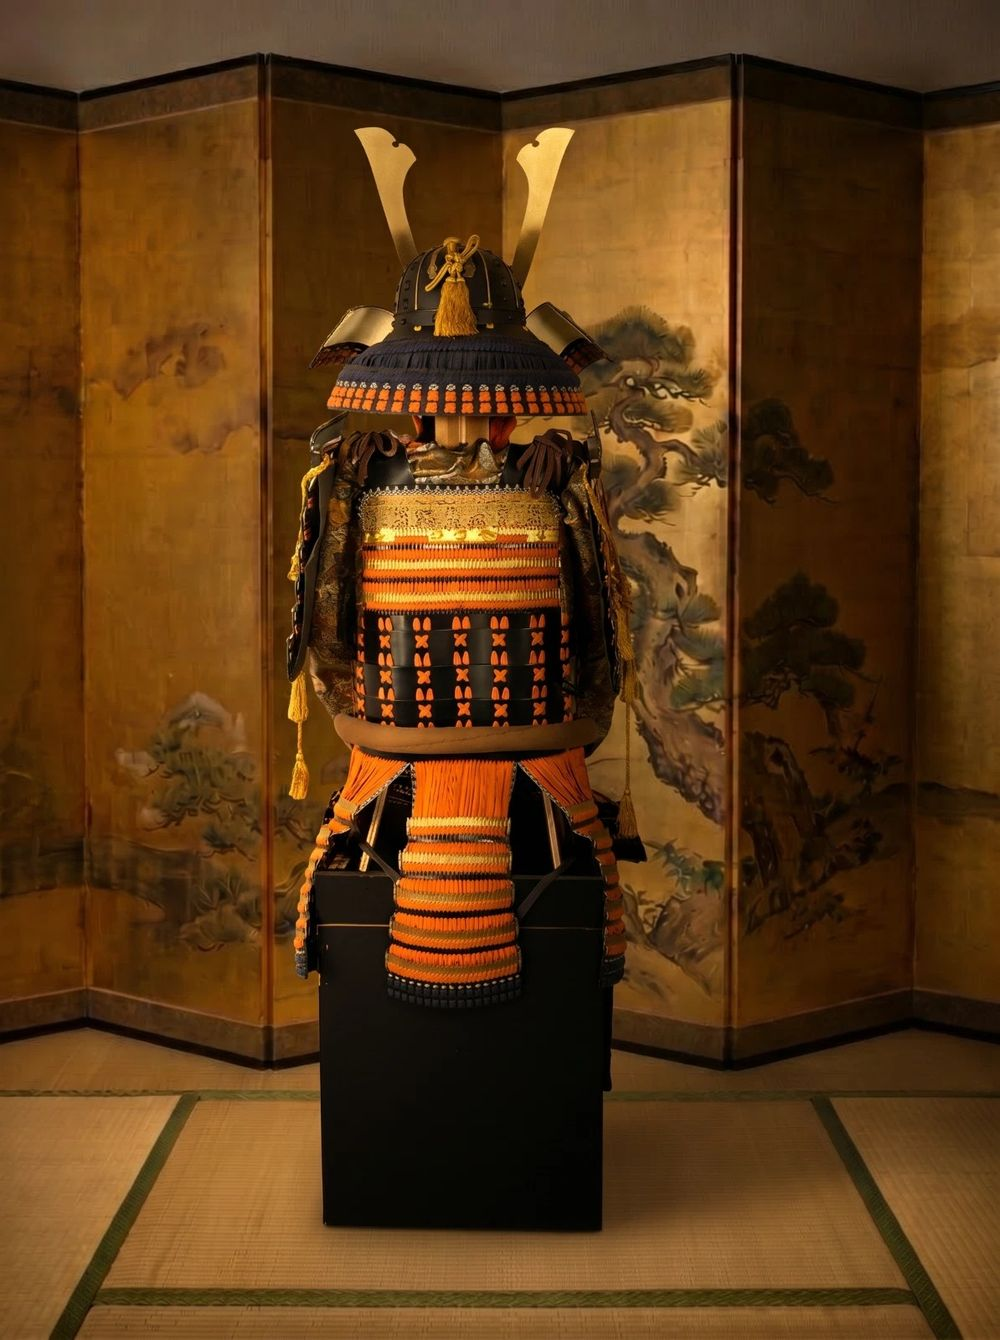
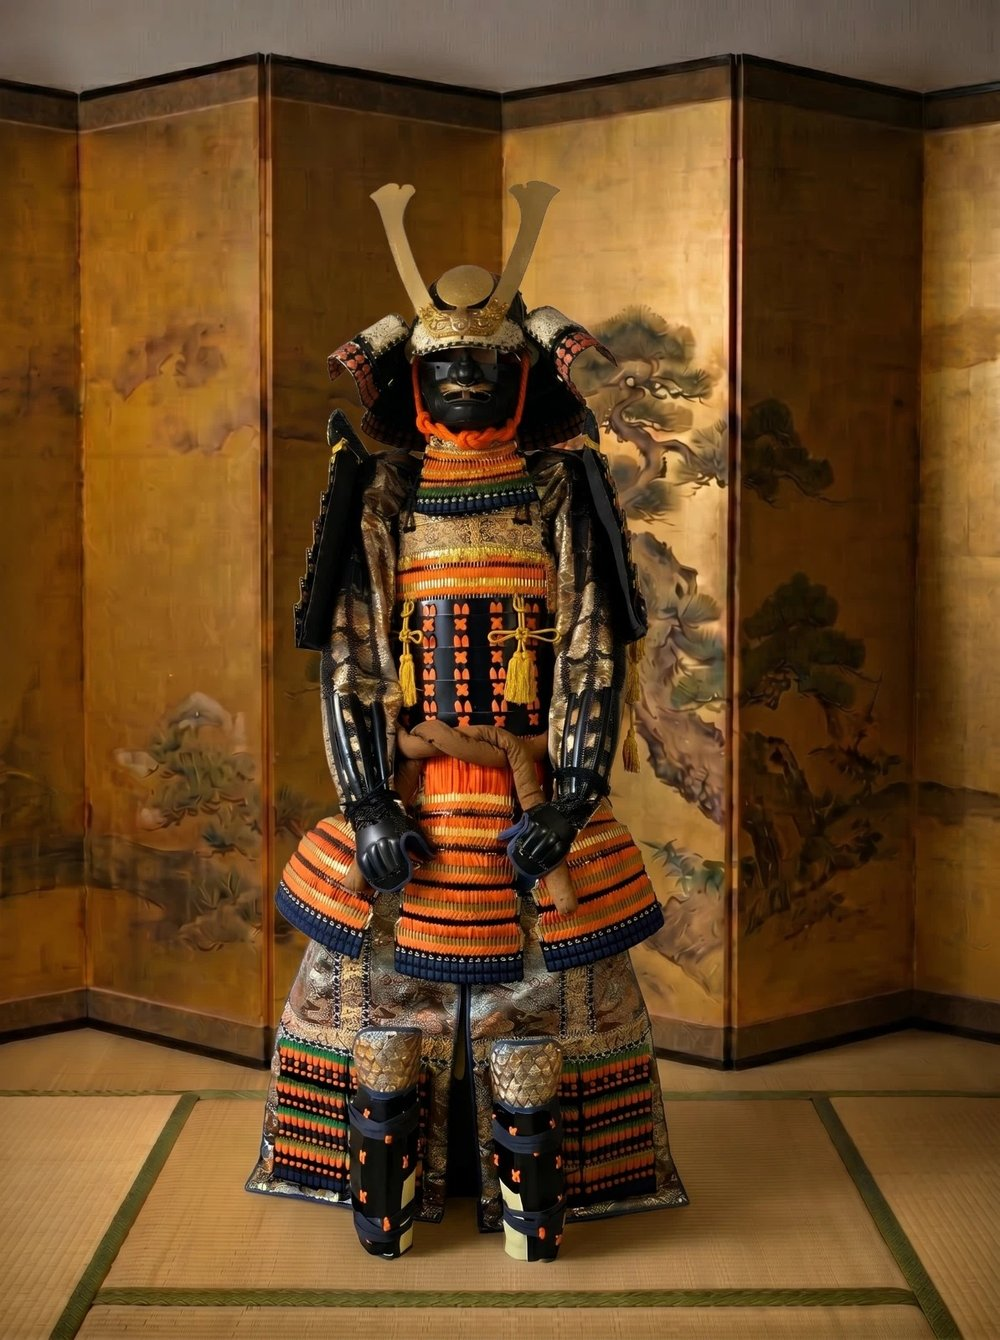
文言を削る・表紙の甲冑を正面の写真に・名前を外す・名刺の事例を外す

diff --git a/index.html b/index.html
@@ -1,14 +1,13 @@
 <!doctype html>
 <html lang="ja">
 <head>
-</script>
 
 <meta charset="utf-8">
 <meta name="viewport" content="width=device-width,initial-scale=1">
-<title>FIVE RINGS｜加藤一央</title>
-<meta name="description" content="東京・八王子のFIVE RINGS。甲冑・骨董の海外販売、植物の輸出申請の代行、中国輸入と、AIを使ったアプリ・ツール制作、SNS運営、ウェブサイト制作、デザイン、暮らしや事業のサポート。">
-<meta property="og:title" content="FIVE RINGS｜加藤一央">
-<meta property="og:description" content="日本の物を、世界へ。手間は、AIで軽く。頼めることと事例、連絡先。">
+<title>FIVE RINGS｜甲冑・骨董の海外販売とAIの道具づくり</title>
+<meta name="description" content="東京・八王子のFIVE RINGS。甲冑・骨董の海外販売、植物の買い付けと輸出、中国輸入。AIを使ったアプリ・ツール制作、SNS運営、ウェブサイト制作、デザイン。">
+<meta property="og:title" content="FIVE RINGS">
+<meta property="og:description" content="日本の物を、世界へ。手間は、AIで軽く。">
 <meta property="og:image" content="https://fiveringstokyo.com/img/hero.jpg">
 <meta name="theme-color" content="#f3efe5">
 <link rel="icon" href="icon.png">
@@ -275,10 +274,8 @@ footer{padding-bottom:64px}
 <p class="label">Five Rings — Hachioji, Tokyo</p>
 <h1><span>日本の物を、世界へ。</span><span>手間は、<span class="tcy">AI</span>で軽く。</span></h1>
 <div class="meta">
-<p class="lead"><span class="nb">甲冑・骨董の海外販売と、</span><span class="nb">AIの道具づくり。</span><br><span class="nb nw">困りごとを、</span><span class="nb">形にするまでひとりで。</span></p>
-<p class="who"><b>加藤一央</b><span>Kazuteru Kato</span></p>
+<p class="lead"><span class="nb">甲冑・骨董の海外販売と、</span><span class="nb">AIの道具づくり。</span></p>
 <div class="cta"><a class="btn" href="#renraku">相談する</a><a class="more" href="#jirei">事例を見る</a></div>
-<div class="forwho"><p>こんな方へ</p><ul><li><a href="#shigoto">骨董・甲冑を海外で売りたい</a></li><li><a href="#shigoto">海外へ植物を送りたい・買い付けたい</a></li><li><a href="#shigoto">仕事の道具やページを作りたい</a></li></ul></div>
 </div>
 </div>
 <figure class="fade"><img src="img/hero.jpg" alt="金屏風の前に飾った甲冑" width="1000" height="1340"><figcaption>海外のオークションで落札された甲冑</figcaption></figure>
@@ -297,17 +294,17 @@ footer{padding-bottom:64px}
 <div class="groups">
 <div class="grp"><h3 class="g">物販</h3>
 <div class="list">
-<div class="item"><h3>輸出（骨董・甲冑・刀装具）</h3><p>日本の骨董や甲冑・刀装具などを、海外のオークションや通販で売ります。</p><p class="rei">手元の骨董を海外で売りたい、の相談</p></div>
-<div class="item"><h3>植物の買い付けと輸出</h3><p>サボテン・多肉植物など、ワシントン条約の対象になる植物を日本で買い付け、輸出の許可を取って海外のお客様へお送りします。送れるかどうかは、植物の種類と送り先の国を確かめてからお返事します。</p><p class="rei">海外のお客様への株の買い付けと発送</p></div>
-<div class="item"><h3>輸入（中国輸入）</h3><p>中国の通販（タオバオなど）からの買い付け・取り寄せを代わりに行います。</p><p class="rei">日本では手に入りにくい品の取り寄せ</p></div>
+<div class="item"><h3>輸出（骨董・甲冑・刀装具）</h3><p>海外のオークションや通販で売ります。</p></div>
+<div class="item"><h3>植物の買い付けと輸出</h3><p>サボテン・多肉植物を日本で買い付け、輸出の許可を取ってお送りします。送れるかは種類と国によります。</p></div>
+<div class="item"><h3>輸入（中国輸入）</h3><p>タオバオなど中国の通販から取り寄せます。</p></div>
 </div></div>
 <div class="grp"><h3 class="g">AI事業</h3>
 <div class="list">
-<div class="item"><h3>アプリ・ツール制作</h3><p>毎日の手作業を減らす小さな道具から、スマホで使うアプリまで。</p><p class="rei">売上や在庫をまとめる台帳、予約の受付</p></div>
-<div class="item"><h3>SNS運営</h3><p>投稿の画像と文章づくり、続けるための段取りを引き受けます。</p><p class="rei">インスタの投稿を毎週そろえる</p></div>
-<div class="item"><h3>ウェブサイト制作</h3><p>お店や個人の紹介ページを、名刺から開ける1枚から作ります。</p><p class="rei">このページ</p></div>
-<div class="item"><h3>デザイン（平面・3D）</h3><p>名刺・チラシなどの紙物から、部屋や品物の3Dまで。</p><p class="rei">この名刺、部屋の3D</p></div>
-<div class="item"><h3>暮らしや事業のサポート</h3><p>調べ物、海外とのやりとりの翻訳、手続きの下調べなど、AIを使って困りごとを一緒に片付けます。</p><p class="rei">海外の買い手とのやりとり、手続きの下調べ</p></div>
+<div class="item"><h3>アプリ・ツール制作</h3><p>手作業を減らす道具から、スマホのアプリまで。</p></div>
+<div class="item"><h3>SNS運営</h3><p>投稿の画像と文章を作ります。</p></div>
+<div class="item"><h3>ウェブサイト制作</h3><p>このページのような紹介ページを作ります。</p></div>
+<div class="item"><h3>デザイン（平面・3D）</h3><p>名刺・チラシから、部屋や品物の3Dまで。</p></div>
+<div class="item"><h3>暮らしや事業のサポート</h3><p>調べ物や翻訳など、AIで困りごとを片付けます。</p></div>
 </div></div>
 </div>
 </div>
@@ -317,8 +314,7 @@ footer{padding-bottom:64px}
 <div class="inner wrap2">
 <div class="shead"><p class="no">02</p><h2>事例</h2><p class="label">Works</p></div>
 <div>
-<p class="intro">わたしはプログラマーではありません。AIに「こういう物がほしい」と言葉で伝えて作らせ、毎日自分で使いながら直す。そのやり方で、仕事の道具を増やしてきました。</p>
-<p class="intro">専門の言葉が分からなくても、困りごとさえ分かれば形にできます。</p>
+<p class="intro">AIに言葉で頼んで作らせ、毎日使いながら直しています。</p>
 </div>
 </div>
 
@@ -340,8 +336,7 @@ footer{padding-bottom:64px}
 <div class="txt">
 <p class="no">Case 01</p>
 <h3>ひとりで動かす、<br>AIの会社</h3>
-<p>写真・調べ物・物販・翻訳・予定・家計など、仕事ごとに担当のAIを置いて、ひとつの画面にまとめました。「この服を海外で売っておいて」と一言送るだけで、担当どうしが手分けして準備を進め、値段のように人が決めるべき所だけをボタンで聞いてきます。</p>
-<p class="kekka"><b>Result</b>物販と制作を、ひとりで回せるようになりました。</p>
+<p>仕事ごとに担当のAIを置き、ひとつの画面にまとめました。一言頼めば手分けして動き、値段など決める所だけを聞いてきます。</p>
 </div>
 </div>
 
@@ -358,21 +353,19 @@ footer{padding-bottom:64px}
 <div class="txt">
 <p class="no">Case 02</p>
 <h3>海外のお客様<br>専用の窓</h3>
-<p>韓国のお客様と、植物の輸出の手続きを進めるための専用ページです。お客様は韓国語、こちらは日本語のまま書けば、AIが訳して届けます。書類の下書きや送る前の確認も、同じ画面で進みます。</p>
-<p class="kekka"><b>Result</b>言葉の壁なく、海外のお客様と手続きを進められます。</p>
+<p>お客様は韓国語、こちらは日本語のまま。AIが訳して届け、輸出の書類も同じ画面で進めます。</p>
 </div>
 </div>
 
 <div class="case">
 <div class="vis dark">
 <div class="pics"><img src="img/kacchu1.jpg" alt="甲冑の写真（上半身）" loading="lazy" width="600" height="800"><img src="img/kacchu2.jpg" alt="甲冑の写真（全身）" loading="lazy" width="600" height="800"></div>
-<p class="cap">黒い布を背に、自分で撮影した出品写真。</p>
+<p class="cap">自分で撮った出品写真</p>
 </div>
 <div class="txt">
 <p class="no">Case 03</p>
 <h3>甲冑を、<br>海外のオークションへ</h3>
-<p>撮影の段取り、英語の説明文、寸法や時代の書き方、発送の手配まで、AIと手分けして進めました。ヨーロッパの美術品オークションで落札され、海外のお客様のもとへ届いています。</p>
-<p class="kekka"><b>Result</b>海外の売り場でも、出品から発送までひとりで完結。</p>
+<p>撮影、英語の説明文、発送までAIと進め、ヨーロッパの美術品オークションで落札されました。</p>
 </div>
 </div>
 
@@ -389,25 +382,11 @@ footer{padding-bottom:64px}
 <div class="txt">
 <p class="no">Case 04</p>
 <h3>動画を、<br>耳で聞くノートに</h3>
-<p>動画のアドレスを貼るだけで、話の中身を読み取り、要点を日本語にまとめて音声にします。家事の合間に、耳だけで勉強できます。</p>
-<p class="kekka"><b>Result</b>見る時間が取れない動画も、聞くだけで追いつけます。</p>
+<p>動画のアドレスを貼るだけで、要点を日本語にまとめて音声にします。</p>
 </div>
 </div>
 
-<div class="case">
-<div class="vis">
-<div class="cards"><img src="img/meishi_omote.jpg" alt="名刺の表" loading="lazy" width="900" height="544"><img src="img/meishi_ura.jpg" alt="名刺の裏" loading="lazy" width="900" height="544"></div>
-<p class="cap">実際の名刺。右下のQRから、このページが開きます。</p>
-</div>
-<div class="txt">
-<p class="no">Case 05</p>
-<h3>この名刺と、<br>このページ</h3>
-<p>名刺のデザインから、読み取るとこのページが開くQR、ページの公開と独自のアドレスまで、ひとそろいで作りました。直したい所があれば、自分ですぐに直せる作りです。</p>
-<p class="kekka"><b>Result</b>名刺1枚から、頼めることがすぐ分かる入口になりました。</p>
-</div>
-</div>
-
-<p class="hoka">ほかに：部屋の3D、サボテン・多肉植物の買い付けと輸出。</p>
+<p class="hoka">ほかに：名刺、部屋の3D</p>
 </div>
 </section>
 
@@ -415,10 +394,9 @@ footer{padding-bottom:64px}
 <div class="inner wrap2">
 <div class="shead"><p class="no">03</p><h2>よくある質問</h2><p class="label">Q&amp;A</p></div>
 <dl class="qa">
-<div><dt>個人でも頼めますか？</dt><dd>はい。個人の方・個人事業主の方からのご相談が中心です。</dd></div>
-<div><dt>遠くに住んでいても大丈夫ですか？</dt><dd>ほとんどの仕事はオンラインのやりとりで進められます。</dd></div>
-<div><dt>料金はいくらですか？</dt><dd>内容をうかがってから、先にお見積りをお出しします。</dd></div>
-<div><dt>相談だけでもいいですか？</dt><dd>はい。まずはお気軽にどうぞ。</dd></div>
+<div><dt>個人でも頼めますか？</dt><dd>はい。個人の方からのご相談が中心です。</dd></div>
+<div><dt>遠くに住んでいても大丈夫ですか？</dt><dd>はい。やりとりはオンラインで進めます。</dd></div>
+<div><dt>料金はいくらですか？</dt><dd>内容をうかがって、先にお見積りを出します。</dd></div>
 </dl>
 </div>
 </section>
@@ -428,7 +406,7 @@ footer{padding-bottom:64px}
 <div class="shead"><p class="no">04</p><h2>連絡する</h2><p class="label">Contact</p></div>
 <div class="body">
 <div>
-<p class="say"><span class="nb">まだ形になっていない</span><span class="nb">相談でも、</span><span class="nb">どうぞお気軽に。</span></p>
+<p class="say"><span class="nb">相談だけでも、</span><span class="nb">どうぞ。</span></p>
 <div class="links">
 <a href="https://www.instagram.com/fiveringstokyo/"><span>Instagram<br><small>@fiveringstokyo</small></span></a>
 <a href="mailto:jt531905@gmail.com"><span>メール<br><small>jt531905@gmail.com</small></span></a>
@@ -449,7 +427,7 @@ footer{padding-bottom:64px}
 <footer>
 <div class="inner"><div class="row">
 <div class="mark"><img src="logo.png" alt="">FIVE RINGS</div>
-<div class="lic"><span>古物商許可　東京都公安委員会　第543951800700号</span><span>許可者　加藤一央</span><span class="tok">特定商取引法に基づく表記：住所・電話番号は、ご請求があれば遅滞なくメールでお知らせします。</span></div>
+<div class="lic"><span>古物商許可　東京都公安委員会　第543951800700号</span><span class="tok">特定商取引法に基づく表記：住所・電話番号はご請求があればメールでお知らせします。</span></div>
 </div></div>
 </footer>
 
